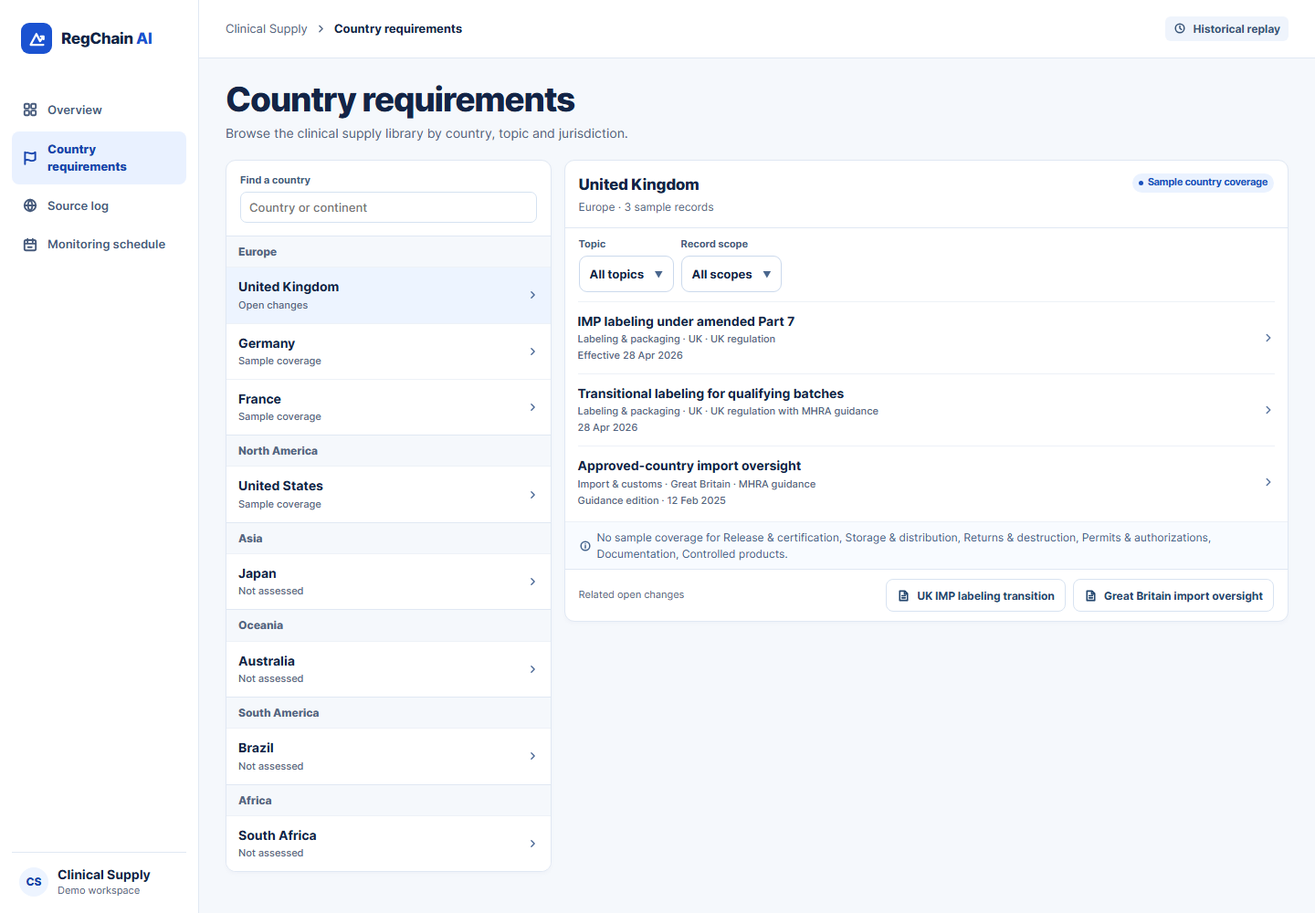
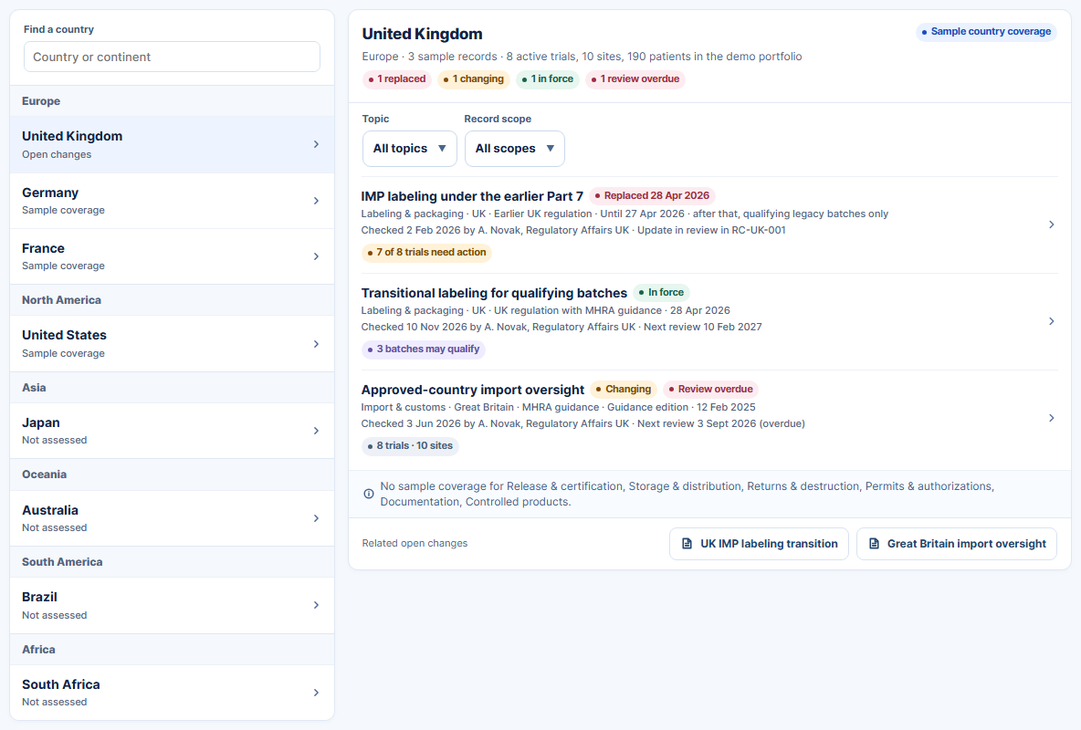
Show whether country records are current, which trials they affect and what to do
Each record in Country requirements now says whether it is in force, changing
or replaced, who last checked it and when it is next due. Before the SME
approves the UK case, the UK labeling record shows as replaced on 28 Apr 2026
instead of presenting the earlier rule as current.

Records show the active trials, sites and patients in the country from the
demo portfolio, with a drawer listing the trials, most urgent first. Opening a
record shows practical answers and lead times paraphrased from the official
sources named under each answer, and marks what the sources leave open.

The screen guide's Country requirements section and screenshots are updated.

diff --git a/RegChain-AI-Dashboard.html b/RegChain-AI-Dashboard.html
@@ -54,6 +54,10 @@ svg{width:18px;height:18px;fill:none;stroke:currentColor;stroke-width:1.7;stroke
 @media(prefers-reduced-motion:reduce){*{transition:none!important}}
 .ai-card{margin-bottom:15px}.ai-card .case-pad>p{max-width:780px}.ai-gate{display:flex;flex-wrap:wrap;gap:8px;align-items:center;margin:2px 0 10px}.ai-card h3{font-size:13px;margin-top:14px}.ai-quote{margin:4px 0 2px!important;font-size:12px;border-left:3px solid var(--line);padding-left:8px;color:var(--ink)!important}.ai-claim .badge{margin-right:6px}.ai-sources{margin-top:6px}.ai-sources td{vertical-align:top}.mono{font-family:ui-monospace,Consolas,monospace;font-size:11px}.diff{margin-top:12px}.diff summary{cursor:pointer;font-weight:700;font-size:13px}.diff ol{list-style:none;padding:0;margin:8px 0 0;max-height:320px;overflow:auto;border:1px solid var(--line);border-radius:8px;font-size:12px}.diff li{padding:4px 10px;border-top:1px solid #f0f3f8;overflow-wrap:anywhere}.diff li:first-child{border-top:0}.diff .add{background:#e7f6ef;color:#196449}.diff .del{background:#fcecf0;color:#9f2c42;text-decoration:line-through}
 .portfolio-impact{margin-bottom:17px}.impact-headline{font-size:15px;line-height:1.5;color:var(--ink)!important;max-width:860px;margin:2px 0 4px!important}.impact-headline strong{color:var(--deep)}
+.req-top{display:flex;align-items:center;gap:6px;flex-wrap:wrap}.req-row .req-top strong{display:inline}.req-chips{display:flex;gap:6px;flex-wrap:wrap;margin-top:6px}.record-summary{display:flex;gap:6px;flex-wrap:wrap;margin-top:7px}
+.record-alert{width:100%;border:1px solid #f3c7d1;border-left:4px solid #c2415a;background:#fdf3f5;border-radius:9px;padding:10px 11px;display:grid;gap:8px;justify-items:start}.record-alert.warn{border-color:#f5d9a6;border-left-color:#c27a00;background:#fff8ea}.record-alert p{color:#3f3346!important}
+.block-head{display:flex;justify-content:space-between;gap:8px;align-items:center;flex-wrap:wrap}.block-head h3{margin:0}.drawer-block .actions{margin-top:9px}
+.practice{list-style:none;padding:0;margin:6px 0 0}.practice li{border-top:1px solid var(--line);padding:9px 0}.practice li:first-child{border-top:0;padding-top:3px}.practice li:last-child{padding-bottom:0}.practice strong{font-size:13px}.practice strong+.badge{margin-left:6px}.practice p{margin:3px 0 2px;font-size:13px;color:#3f597c}.practice small{display:block;color:var(--muted);font-size:11px}.exposure-lines{margin:5px 0 0;padding-left:17px;font-size:13px;color:#3f597c}.exposure-lines li{margin:2px 0}
 </style>
 </head>
 <body>
@@ -118,8 +122,81 @@ const requirements = [
  {id:"gb-import",scope:"Great Britain",country:"uk",topic:topics[1],title:"Approved-country import oversight",basis:"MHRA guidance",when:"Guidance edition · 12 Feb 2025",status:"Example baseline",summary:"For the approved-country import route, verify the UK import authorization holder and the mechanism for checking certification by a qualified person in an approved country.",locator:"GOV.UK import guidance and approved-country list",source:"imports",related:"import"},
  {id:"eu-pack",scope:"EU",shared:true,topic:topics[0],title:"Immediate packaging and expiry or retest dates",basis:"EU delegated regulation",when:"In force from 5 Dec 2022",status:"Shared EU baseline",summary:"Annex VI allows the period of use to be omitted from the immediate package in specified configurations. Verify the packaging conditions and the other particulars required by Annex VI.",locator:"Delegated Regulation (EU) 2022/2239, Annex, B.6.2 and B.6.3",source:"annex",related:"eu"},
  {id:"us-label",scope:"United States",country:"us",topic:topics[0],title:"Investigational new drug labeling",basis:"U.S. federal regulation",when:"Current eCFR section",status:"Example baseline",summary:"21 CFR 312.6 sets the investigational-use statement for immediate packages of investigational new drugs for human use and addresses misleading or unsupported labeling claims. The section also specifies a limited exception process.",locator:"21 CFR § 312.6",url:"https://www.ecfr.gov/current/title-21/chapter-I/subchapter-D/part-312/subpart-A/section-312.6"},
- {id:"us-import",scope:"United States",country:"us",topic:topics[1],title:"Importing investigational new drugs",basis:"FDA guidance page",when:"See linked FDA source",status:"Example baseline",summary:"FDA describes the IND, U.S. consignee and labeling evidence for imports under an active IND. Check applicability and exemptions against the governing provisions.",locator:"FDA, Importing Investigational New Drugs",url:"https://www.fda.gov/drugs/human-drug-imports/importing-investigational-new-drugs"}
+ {id:"us-import",scope:"United States",country:"us",topic:topics[1],title:"Importing investigational new drugs",basis:"FDA guidance page",when:"Page current as of 15 Jun 2026",status:"Example baseline",summary:"FDA describes the IND, U.S. consignee and labeling evidence for imports under an active IND. Check applicability and exemptions against the governing provisions.",locator:"FDA, Importing Investigational New Drugs",url:"https://www.fda.gov/drugs/human-drug-imports/importing-investigational-new-drugs"}
 ];
+// What each record means in practice, who last checked it, and when it is due again.
+// Answers are short paraphrases written from the official sources named in `ref` (checked 14 Nov 2026).
+// The people are fictional demo users. `watch` lists the monitored sources, `change` an open change that may alter the record.
+const recordDetails = {
+ "uk-label":{
+  checked:{on:"2026-02-02",by:"A. Novak, Regulatory Affairs UK"},review:"2026-05-02",watch:["statute"],
+  practice:[
+   {q:"What must the label show?",a:"For an IMP without a UK marketing authorisation: the words “for clinical trial use only”; a warning to keep it out of the reach and sight of children (not needed if it is only given in a hospital or health centre taking part in the trial); sponsor and contact details; the trial reference; the participant number; active substance, strength, form, contents and batch number; instructions for use, route, expiry date and storage; and in blinded trials, the name of any comparator or placebo.",ref:"Regulation 46(1)"},
+   {q:"Is a shorter label allowed?",a:"Yes, for authorised medicines given only in a hospital or health centre taking part in the trial, and for diagnostic radiopharmaceuticals. Authorised medicines can also carry the standard dispensing label instead.",ref:"Regulation 46(2) to (4)"},
+   {q:"Does a change to an existing label need MHRA approval?",a:"The sponsor risk-assesses each change as substantial or minor. Adding “and sight” to the children warning is the guidance's example of a minor change. A substantial change needs a Route A substantial modification, approved before it is used.",ref:"MHRA transitional arrangements guidance"},
+   {q:"Can a requirement be varied or dropped?",a:"Ask in the trial application, and record an agreed variation in the IMP dossier. For a batch made after 28 Apr 2026 that cannot meet the rules for exceptional operational reasons, apply through a Route A substantial modification. The batch cannot be used until it is approved.",ref:"Regulation 46(5) and (6) · MHRA transitional arrangements guidance"},
+   {q:"Can we update the expiry date on older stock?",a:"Yes. If the IMP was QP certified before 28 Apr 2026, its expiry date can be updated after that date without bringing the rest of the label up to the new rules.",ref:"MHRA transitional arrangements guidance"},
+   {q:"Do non-investigational products (NIMPs) get the transition?",a:"No. From 28 Apr 2026 every NIMP must meet the amended rules, whatever its manufacture date. Existing trials whose NIMP labels do not comply need a substantial modification.",ref:"MHRA transitional arrangements guidance"},
+   {q:"Which language must the label use?",a:"Regulation 46 does not say. Confirm with Regulatory Affairs before relying on it.",ref:"Not stated in the watched sources",open:true}
+  ],
+  lead:[
+   {label:"Prepare a UK shipment",value:"5 calendar days",basis:"Company supply data"},
+   {label:"MHRA decision on a substantial label change",value:"Not stated in the watched sources",basis:"Add from Regulatory Affairs",open:true}
+  ]},
+ "uk-transition":{
+  checked:{on:"2026-11-10",by:"A. Novak, Regulatory Affairs UK"},review:"2027-02-10",watch:["transition","statute"],
+  practice:[
+   {q:"Which date decides old or new rules?",a:"The date of QP certification of the finished IMP, not the date it was physically made.",ref:"MHRA transitional arrangements guidance"},
+   {q:"When can a batch keep its old-rules label?",a:"When it was made before 28 Apr 2026, is labelled under the old regulation 46, and is used in the old-rules trial it was made for. Part 7 of the old rules then keeps applying to it.",ref:"Schedule 14, paragraph 6"},
+   {q:"What about IMPs imported from approved countries?",a:"An IMP certified by a QP before 28 Apr 2026 and labelled under the old rules can still be used in its UK trial, even if UK QP import oversight was completed after that date.",ref:"MHRA transitional arrangements guidance"},
+   {q:"Does the transition cover NIMPs?",a:"No. NIMPs follow the amended rules from 28 Apr 2026.",ref:"MHRA transitional arrangements guidance"},
+   {q:"Do approved labels need “participant” instead of “patient”?",a:"No, labels already approved can stay. MHRA strongly encourages “participant” on labels approved after 28 Apr 2026.",ref:"MHRA transitional arrangements guidance"}
+  ],
+  lead:[
+   {label:"Old-rules cutoff",value:"QP certification before 28 Apr 2026",basis:"Schedule 14 and MHRA guidance"},
+   {label:"QP certification on 28 Apr 2026 itself",value:"Expert decision",basis:"The guidance speaks of “before” and “after” the date, so RegChain escalates these batches",open:true}
+  ]},
+ "gb-import":{
+  checked:{on:"2026-06-03",by:"A. Novak, Regulatory Affairs UK"},review:"2026-09-03",watch:["imports","list"],change:"import",
+  practice:[
+   {q:"Who must oversee imports from approved countries?",a:"A UK MIA(IMP) holder. Its named QP oversees a system that checks each batch was QP certified in a listed country before release to the trial. The batch is not certified again.",ref:"MHRA import guidance, section 2"},
+   {q:"Which countries count?",a:"Countries on MHRA's approved-country list, initially all EU and EEA countries. From any other country, import and QP certification by the UK MIA(IMP) holder are still needed.",ref:"MHRA import guidance, section 2 · approved-country list"},
+   {q:"What evidence is needed for each batch?",a:"One piece of written evidence that the batch was QP certified for the UK trial, such as a batch certificate or a certification statement under Article 62(1) of Regulation (EU) 536/2014.",ref:"MHRA import guidance, section 3.3"},
+   {q:"What must be in place before shipping?",a:"Written agreements between the sponsor, the UK MIA(IMP) holder, the listed-country MIA(IMP) holder and any GB hub; shipments only to approved GB sites; and MHRA authorisation of the trial before the IMP reaches the investigator.",ref:"MHRA import guidance, sections 3 and 3.1"},
+   {q:"Must the QP live in the UK?",a:"Not for this check. The QP may live in the UK or in a listed country. Imports from countries not on the list need a QP resident in the UK.",ref:"MHRA import guidance, section 2"},
+   {q:"Which of our shipments use this route?",a:"Unknown. The supply data does not record where each shipment comes from.",ref:"Gap in the demo supply data",open:true}
+  ],
+  lead:[
+   {label:"Check QP certification evidence",value:"Before the first shipment from each batch",basis:"MHRA import guidance, section 3.3"},
+   {label:"Prepare a UK shipment",value:"5 calendar days",basis:"Company supply data"}
+  ]},
+ "eu-pack":{
+  checked:{on:"2026-10-01",by:"L. Weber, Regulatory Affairs EU"},review:"2027-04-01",watch:["annex","qa"],change:"eu",
+  practice:[
+   {q:"When can the expiry date be left off the immediate pack?",a:"When the immediate and outer packs stay together, or when the immediate pack is a blister or a small unit such as an ampoule. The outer pack must then carry all the particulars, and the immediate pack can omit the expiry or retest date.",ref:"Regulation (EU) 536/2014, Annex VI, B.6.2 and B.6.3, as amended by Delegated Regulation (EU) 2022/2239"},
+   {q:"Which language must the label use?",a:"The language each Member State sets. A product may be labelled in several languages.",ref:"Regulation (EU) 536/2014, Article 69"},
+   {q:"Does the new Q&A on cryopreserved products change this?",a:"Not assessed yet. It is an open change for Regulatory Affairs.",ref:"Open change: EU guidance on cryopreserved products",open:true}
+  ],
+  lead:[]},
+ "us-label":{
+  checked:{on:"2026-08-20",by:"J. Carter, Regulatory Affairs US"},review:"2027-02-20",watch:[],
+  practice:[
+   {q:"What must the immediate package say?",a:"“Caution: New Drug—Limited by Federal (or United States) law to investigational use.”",ref:"21 CFR 312.6(a)"},
+   {q:"What must the label avoid?",a:"Anything false or misleading, and any claim that the drug is safe or effective for the purposes being investigated.",ref:"21 CFR 312.6(b)"},
+   {q:"When did this rule last change?",a:"Its last substantive change dates from 23 Dec 2016, according to the eCFR version history.",ref:"eCFR versions of 21 CFR 312.6"}
+  ],
+  lead:[]},
+ "us-import":{
+  checked:{on:"2026-08-20",by:"J. Carter, Regulatory Affairs US"},review:"2027-02-20",watch:[],
+  practice:[
+   {q:"What is needed to import?",a:"An IND in effect for the drug, unless it is exempt under 21 CFR 312.2. Submit the IND before importing, and import the drug only for the investigation it covers.",ref:"FDA import page · 21 CFR 312.110"},
+   {q:"Who can receive the shipment?",a:"The IND sponsor, a qualified investigator named in the IND, or the US agent of a foreign sponsor named in the IND. FDA checks that the entry documents match.",ref:"21 CFR 312.110(a), via the FDA import page"},
+   {q:"Does the drug need registration and listing?",a:"No. Drugs under an active IND are exempt.",ref:"21 CFR 207.13, via the FDA import page"}
+  ],
+  lead:[
+   {label:"Earliest shipment to investigators",value:"30 days after FDA receives the IND, or earlier if FDA authorises it",basis:"21 CFR 312.40(c)"}
+  ]}
+};
 </script>
 <script id="workflow-model">
 "use strict";
@@ -433,16 +510,20 @@ if(portfolio) {
   const ukChange=changes.find(change=>change.id==="uk");
   ukChange.studyNote=studies.filter(study=>study.status==="Batch review").length+" of "+studies.length+" fictional portfolio studies have UK batches to review. The public registry view shows screening candidates.";
 }
+// The UK labeling change across the portfolio: used by the Overview card and the country library.
+function ukLabelImpact() {
+  const statusOf=id=>assessedBatches.find(batch=>batch.id===id)?.status;
+  const urgent=shipmentFindings().filter(shipment=>actionStatuses.includes(statusOf(shipment.batch))).sort((a,b)=>a.preparationDate.localeCompare(b.preparationDate));
+  return {statusOf,urgent,first:urgent[0],
+    trials:studies.filter(study=>study.status==="Batch review").length,
+    batches:assessedBatches.filter(batch=>actionStatuses.includes(batch.status)).length,
+    patients:urgent.reduce((sum,shipment)=>sum+(shipment.patients||0),0)};
+}
 function portfolioImpactCard() {
   if(!portfolio||!ukOpen()) return "";
   const asOf=portfolio.assessment_as_of.slice(0,10);
   const daysLeft=day=>Math.round((Date.parse(day)-Date.parse(asOf))/86400000);
-  const statusOf=id=>assessedBatches.find(batch=>batch.id===id)?.status;
-  const urgent=shipmentFindings().filter(shipment=>actionStatuses.includes(statusOf(shipment.batch))).sort((a,b)=>a.preparationDate.localeCompare(b.preparationDate));
-  const trials=studies.filter(study=>study.status==="Batch review").length;
-  const batches=assessedBatches.filter(batch=>actionStatuses.includes(batch.status)).length;
-  const patients=urgent.reduce((sum,shipment)=>sum+(shipment.patients||0),0);
-  const first=urgent[0];
+  const {statusOf,urgent,trials,batches,patients,first}=ukLabelImpact();
   const firstDays=first?daysLeft(first.preparationDate):null;
   const when=firstDays===0?"<strong>today</strong>":firstDays===1?"<strong>tomorrow</strong>":"by <strong>"+esc(displayDay(first?.preparationDate))+"</strong>";
   const headline='<p class="impact-headline"><strong>'+trials+' of '+studies.length+'</strong> trials need action. <strong>'+batches+'</strong> batches need a labeling review or an expert decision, and <strong>'+urgent.length+'</strong> UK shipments need work before dispatch'+
@@ -493,13 +574,89 @@ const countryById = id => countries.find(country=>country.id===id);
 function publishedRecord(record) {
   if(record.id!=="uk-label") return record;
   const current=workflow.publication;
-  return {...record,title:current?record.title:"UK IMP labeling reference",
+  return {...record,title:current?record.title:"IMP labeling under the earlier Part 7",
     status:current?"Published country record · v2":"Seeded baseline · v1",
-    when:current?"Effective 28 Apr 2026":"Legacy cohort reference",
+    when:current?"Effective 28 Apr 2026":"Until 27 Apr 2026 · after that, qualifying legacy batches only",
     ...(current?{}:{source:null,basis:"Earlier UK regulation",locator:"Pre-amendment Part 7, regulation 46",url:"https://www.legislation.gov.uk/cy/uksi/2004/1031/body/2025-07-23"}),
     summary:current?current.policy+" "+current.instruction:ukCase.baseline};
 }
 const recordsFor = country => requirements.filter(record=>record.country===country.id || (record.shared && country.shared)).map(publishedRecord);
+// Library dates follow the demo's assessment day, like the rest of the replay.
+const libraryToday = (portfolio?.assessment_as_of ?? "2026-11-14").slice(0,10);
+const plural = (count,word,many=word+"s") => count+" "+(count===1?word:many);
+function addMonths(day,months) {
+  const date=new Date(day+"T00:00:00Z");
+  date.setUTCMonth(date.getUTCMonth()+months);
+  return date.toISOString().slice(0,10);
+}
+// In force, Changing (an open change may alter it) or Replaced (the rule changed and the update is not approved).
+function recordState(record) {
+  if(record.id==="uk-label" && !workflow.publication) {
+    const rejected=workflow.stage==="rejected";
+    return {label:"Replaced 28 Apr 2026",tone:"red",change:"uk",
+      note:"The rule changed on 28 Apr 2026. This record still describes the earlier rule, which now applies only to qualifying legacy batches. "+
+        (rejected?"The update was rejected in case "+ukCase.id+", so the record has not been replaced yet.":"The updated record is waiting for expert approval in case "+ukCase.id+".")};
+  }
+  const change=openChanges().find(item=>item.id===recordDetails[record.id]?.change);
+  if(change) return {label:"Changing",tone:"amber",change:change.id,note:"An open change may alter this record: "+change.title+" ("+change.when+"). Regulatory Affairs is assessing it."};
+  return {label:"In force",tone:"green",note:""};
+}
+function recordCheck(record) {
+  const replaced=record.id==="uk-label" && !workflow.publication;
+  const details=recordDetails[record.id]??{};
+  const check=record.id==="uk-label" && workflow.publication
+    ? {on:workflow.publication.at.slice(0,10),by:(workflow.decision?.actor??"Regulatory SME")+", approved in "+ukCase.id,review:addMonths(workflow.publication.at.slice(0,10),3)}
+    : {...details.checked,review:details.review};
+  const overdue=!replaced && Boolean(check.review) && check.review<libraryToday;
+  const review=replaced?"Update in review in "+ukCase.id:displayDay(check.review)+(overdue?" (overdue)":"");
+  return {...check,overdue,review,line:"Checked "+displayDay(check.on)+" by "+check.by+" · "+(replaced?review:"Next review "+review)};
+}
+function watchText(record) {
+  const watched=(recordDetails[record.id]?.watch??[]).map(id=>sources.find(source=>source.id===id)).filter(Boolean);
+  if(!watched.length) return "Not on the watch list yet";
+  const retry=watched.filter(source=>source.status==="Retry needed").length;
+  return plural(watched.length,"source")+" watched · checked "+replayDate+(retry?" · "+retry+" needs a retry":"");
+}
+const countryCodes = {uk:"GB",de:"DE",fr:"FR",us:"US",jp:"JP",au:"AU",br:"BR",za:"ZA"};
+// Active trials, sites and patients in one country of the demo portfolio.
+function countryPortfolio(countryId) {
+  if(!portfolio) return null;
+  const code=countryCodes[countryId];
+  const active=new Set(portfolio.studies.filter(study=>study.status!=="completed").map(study=>study.id));
+  const trialIds=[...new Set(portfolio.study_countries.filter(item=>item.country_code===code && active.has(item.study_id)).map(item=>item.study_id))];
+  const sites=portfolio.sites.filter(site=>site.country_code===code && active.has(site.study_id));
+  return {trialIds,sites,patients:sites.reduce((sum,site)=>sum+(site.patients_on_treatment||0),0)};
+}
+// Which of our trials a record touches, in the country being viewed.
+function recordExposure(record) {
+  const country=countryById(currentCountry);
+  const base=countryPortfolio(country.id);
+  if(!base) return null;
+  const trials=base.trialIds.length;
+  if(!trials) return {chip:["No active trials here",""],lines:["No active trials in the demo portfolio have sites in "+country.name+"."],trials};
+  const where=plural(trials,"active trial")+" · "+plural(base.sites.length,"site")+" · "+base.patients+" patients on treatment in "+country.name;
+  const chip=[plural(trials,"trial")+" · "+plural(base.sites.length,"site"),""];
+  if(record.id==="uk-label") {
+    const impact=ukLabelImpact();
+    return {trials,chip:[impact.trials+" of "+trials+" trials need action",impact.trials?"amber":""],lines:[
+      impact.trials+" of "+trials+" active UK trials need action",
+      plural(impact.batches,"batch","batches")+" need a labeling review or an expert decision",
+      plural(impact.urgent.length,"UK shipment")+" need work before dispatch"+(impact.first?" · first to prepare: "+impact.first.id+(impact.first.preparationDate===libraryToday?", today":" by "+displayDay(impact.first.preparationDate)):""),
+      impact.patients+" patients on treatment at the sites those shipments resupply"]};
+  }
+  if(record.id==="uk-transition") {
+    const uk=assessedBatches.filter(batch=>batch.scope==="UK");
+    const qualify=uk.filter(batch=>batch.status==="Potential transition eligibility").length;
+    const missing=uk.filter(batch=>batch.status==="Insufficient information" && batch.qp && batch.qp<ukCase.effective).length;
+    const cutoff=uk.filter(batch=>batch.status==="Needs SME assessment").length;
+    return {trials,chip:[plural(qualify,"batch","batches")+" may qualify","purple"],lines:[
+      plural(qualify,"batch","batches")+" may keep "+(qualify===1?"its":"their")+" old-rules label",
+      plural(missing,"batch","batches")+" certified before 28 Apr 2026 "+(missing===1?"lacks":"lack")+" the evidence to confirm it",
+      plural(cutoff,"batch","batches")+" certified on 28 Apr 2026 "+(cutoff===1?"needs":"need")+" an expert decision",where]};
+  }
+  if(record.id==="gb-import") return {trials,chip,lines:[where,"The supply data does not record where shipments come from, so imported batches cannot be identified yet."]};
+  return {trials,chip,lines:[where]};
+}
 function countryList() {
   const query=countrySearch.trim().toLowerCase();
   const groups=regions.map(region=>{
@@ -526,10 +683,24 @@ function countryRequirements() {
     const change=changes.find(item=>item.id===id);
     return trigger(change.title,"open-case",id,"","file");
   });
-  const rows=filtered.map(record=>'<button type="button" class="req-row" data-act="requirement" data-value="'+record.id+'"><span><strong>'+record.title+'</strong><small class="sub">'+record.topic+' · '+record.scope+' · '+record.basis+'</small><small class="sub">'+record.when+'</small></span>'+icon("chevron")+'</button>').join("");
+  const rows=filtered.map(record=>{
+    const state=recordState(record);
+    const check=recordCheck(record);
+    const exposure=recordExposure(record);
+    return '<button type="button" class="req-row" data-act="requirement" data-value="'+record.id+'"><span><span class="req-top"><strong>'+esc(record.title)+'</strong>'+badge(state.label,state.tone)+(check.overdue?badge("Review overdue","red"):"")+'</span>'+
+      '<small class="sub">'+esc(record.topic+' · '+record.scope+' · '+record.basis+' · '+record.when)+'</small><small class="sub">'+esc(check.line)+'</small>'+
+      (exposure?'<span class="req-chips">'+badge(...exposure.chip)+'</span>':'')+'</span>'+icon("chevron")+'</button>';
+  }).join("");
   const coveredTopics=new Set(all.map(record=>record.topic));
   const missing=topics.filter(topic=>!coveredTopics.has(topic));
-  return '<section class="card"><div class="card-head"><div><h2>'+country.name+'</h2><p>'+country.region+' · '+all.length+' sample records</p></div>'+badge(coverage,hasLocal?"blue":all.length?"purple":"")+'</div>'+
+  const base=countryPortfolio(country.id);
+  const states=all.map(recordState);
+  const tally=["Replaced","Changing","In force"].map(label=>[label,states.filter(state=>state.label.startsWith(label)).length,states.find(state=>state.label.startsWith(label))?.tone]).filter(([,count])=>count);
+  const overdue=all.filter(record=>recordCheck(record).overdue).length;
+  const summary=tally.map(([label,count,tone])=>badge(count+" "+label.toLowerCase(),tone)).join("")+(overdue?badge(plural(overdue,"review")+" overdue","red"):"");
+  return '<section class="card"><div class="card-head"><div><h2>'+country.name+'</h2><p>'+country.region+' · '+plural(all.length,"sample record")+
+    (base?' · '+plural(base.trialIds.length,"active trial")+', '+plural(base.sites.length,"site")+', '+base.patients+' patients in the demo portfolio':'')+'</p>'+
+    (summary?'<div class="record-summary">'+summary+'</div>':'')+'</div>'+badge(coverage,hasLocal?"blue":all.length?"purple":"")+'</div>'+
     '<div class="card-foot"><div class="filters"><label class="field">Topic<select id="country-topic">'+options([["all","All topics"],...topics.map(topic=>[topic,topic])],countryTopic)+'</select></label><label class="field">Record scope<select id="country-scope">'+options([["all","All scopes"],["local","Country-specific"],["shared","Shared EU"]],countryScope)+'</select></label></div></div>'+
     (rows?'<div class="req-list">'+rows+'</div>':'<p class="nothing">'+(all.length?"No records match these filters.":"This prototype has no reviewed records for this country.")+'</p>')+
     '<div class="inline-note">'+icon("info")+'<span>'+esc((all.length && !hasLocal?"Country-specific requirements are not assessed. ":"")+(missing.length?"No sample coverage for "+missing.join(", ")+".":""))+'</span></div>'+
@@ -539,14 +710,56 @@ function countryLibrary() {
   return heading("Country requirements","Browse the clinical supply library by country, topic and jurisdiction.")+
     '<div class="library-layout"><section class="card"><div class="card-head"><label class="field" style="width:100%">Find a country<input id="country-search" type="search" placeholder="Country or continent" value="'+esc(countrySearch)+'"></label></div><div id="country-list">'+countryList()+'</div></section><div id="country-requirements">'+countryRequirements()+'</div></div>';
 }
+function practiceList(items) {
+  return '<ul class="practice">'+items.map(item=>'<li><strong>'+esc(item.q)+'</strong>'+(item.open?badge("To confirm","amber"):"")+'<p>'+esc(item.a)+'</p><small>'+esc(item.ref)+'</small></li>').join("")+'</ul>';
+}
+function leadList(items) {
+  return '<ul class="practice">'+items.map(item=>'<li><strong>'+esc(item.label)+'</strong>'+(item.open?badge("To confirm","amber"):"")+'<p>'+esc(item.value)+'</p><small>'+esc(item.basis)+'</small></li>').join("")+'</ul>';
+}
 function requirementDetail(id) {
   const record=publishedRecord(requirements.find(item=>item.id===id));
   const source=sources.find(item=>item.id===record.source);
-  drawer("Country requirements library",record.title,badge(record.status,"blue")+
-    factlist([["Jurisdiction",record.scope],["Topic",record.topic],["Source type",record.basis],["Date or edition",record.when],["Source provision",record.locator]])+
+  const details=recordDetails[id]??{};
+  const state=recordState(record);
+  const check=recordCheck(record);
+  const exposure=recordExposure(record);
+  const country=countryById(currentCountry);
+  const alert=state.note?'<section class="record-alert'+(state.tone==="red"?"":" warn")+'"><p>'+esc(state.note)+'</p>'+trigger(state.change==="uk"?"Open the UK case":"Open the change","open-case",state.change,"","arrow")+'</section>':"";
+  const replaced=state.label.startsWith("Replaced");
+  const practiceTag=id==="uk-label"?(replaced?badge("Draft · awaiting expert approval","amber"):badge("Approved in "+ukCase.id,"green")):badge("Example · written from the official sources","blue");
+  const exposureBlock='<section class="drawer-block"><div class="block-head"><h3>Our trials in '+esc(country.name)+'</h3>'+(exposure?badge(...exposure.chip):"")+'</div>'+
+    (exposure?'<ul class="exposure-lines">'+exposure.lines.map(line=>'<li>'+esc(line)+'</li>').join("")+'</ul>'+(exposure.trials?'<div class="actions">'+trigger("See the trials","record-trials",id,"","arrow")+'</div>':""):
+      '<p>Start the dashboard with Start-RegChain.cmd to load the demo portfolio and see which trials this record affects.</p>')+'</section>';
+  const practiceBlock=details.practice?.length?'<section class="drawer-block"><div class="block-head"><h3>'+(replaced?"What to do under the amended rule":"What to do")+'</h3>'+practiceTag+'</div>'+practiceList(details.practice)+'</section>':"";
+  const leadBlock=details.lead?.length?'<section class="drawer-block"><h3>Lead times</h3>'+leadList(details.lead)+'</section>':"";
+  drawer("Country requirements library",record.title,'<div class="actions">'+badge(state.label,state.tone)+(check.overdue?badge("Review overdue","red"):"")+badge(record.status,"blue")+'</div>'+alert+
+    exposureBlock+practiceBlock+leadBlock+
+    factlist([["Jurisdiction",record.scope],["Topic",record.topic],["Source type",record.basis],["Date or edition",record.when],["Source provision",record.locator],
+      ["Last checked",displayDay(check.on)+" · "+check.by],["Next review",check.review],["Source watch",watchText(record)]])+
     block("Requirement summary",record.summary)+
     '<div class="actions">'+openLink("Open official source",source?.url??record.url,"primary")+
     (record.id==="uk-label"?trigger("View versions","case-history","uk","","arrow"):record.related?trigger("View related change","open-case",record.related,"","arrow"):"")+'</div>');
+}
+// The trials behind a record's numbers, in the country being viewed.
+function recordTrials(id) {
+  const record=publishedRecord(requirements.find(item=>item.id===id));
+  const country=countryById(currentCountry);
+  const base=countryPortfolio(country.id);
+  if(!base) return requirementDetail(id);
+  const ukRecord=["uk-label","uk-transition"].includes(id);
+  const order=studyId=>{const index=studies.findIndex(study=>study.id===studyId);return index<0?studies.length:index;};
+  const items=[...base.trialIds].sort((a,b)=>order(a)-order(b)||a.localeCompare(b)).map(studyId=>{
+    const study=portfolio.studies.find(item=>item.id===studyId);
+    const sites=base.sites.filter(site=>site.study_id===studyId);
+    const assessed=ukRecord?studies.find(item=>item.id===studyId):null;
+    const patients=sites.reduce((sum,site)=>sum+(site.patients_on_treatment||0),0);
+    return '<li><div class="block-head"><strong>'+esc(studyId+" · "+study.title)+'</strong>'+(assessed?badge(assessed.status,assessed.tone):badge("In scope","blue"))+'</div>'+
+      '<small>'+esc((sites.map(site=>site.city).join(", ")||"No sites listed")+" · "+plural(patients,"patient")+" on treatment"+(assessed?" · "+assessed.reason:""))+'</small></li>';
+  }).join("");
+  drawer("Country requirements library","Our trials affected by “"+record.title+"”",
+    '<p>'+esc(plural(base.trialIds.length,"active trial")+" in "+country.name+" in the demo portfolio"+(ukRecord?", ordered by what needs action first.":"."))+'</p>'+
+    '<ul class="case-list" style="width:100%">'+items+'</ul>'+
+    '<div class="actions">'+trigger("Back to the record","requirement",id,"","arrow")+(id==="uk-label"&&ukOpen()?trigger("Open the UK case","open-case","uk","primary","arrow"):"")+'</div>');
 }
 function monitoringSchedule() {
   return heading("Monitoring schedule","Set the interval for automatic checks.")+
@@ -980,6 +1193,7 @@ const actions={
     focusTarget.focus();
   },
   requirement:requirementDetail,
+  "record-trials":recordTrials,
   "open-case":openCase,
   "case-history":id=>openCase(id,"history"),
   "workflow-tab":tab=>{workflowTab=tab;render();byId("view").querySelector('[data-act="workflow-tab"][data-value="'+tab+'"]').focus();},

diff --git a/RegChain-AI-Screen-Guide.md b/RegChain-AI-Screen-Guide.md
@@ -84,9 +84,15 @@ Status on 14 November 2026. The screens were captured from `main` with the demo 
 
 ![Country requirements](screens/12-country-requirements.png)
 
-**Shows:** the country library: requirements by country, topic and scope, coverage gaps per topic, and links to open changes.
+**Shows:** the country library: requirements by country, topic and scope, coverage gaps per topic, and links to open changes. Each record now answers three questions:
 
-**Real or simulated:** sample records for a handful of countries. It does not reflect the 17 countries in the demo portfolio.
+- **Is it current?** Every record is *In force*, *Changing* (an open change may alter it) or *Replaced* (the rule changed and the update is not approved yet), with who checked it last, when it is next due and an overdue flag. Before the SME approves the UK case, the UK labeling record shows as replaced on 28 Apr 2026 instead of passing the earlier rule off as current.
+- **Which of our trials does it touch?** Each record shows the trials, sites and patients in that country, and for the UK labeling record, the 7 trials, 12 batches and 6 shipments that need action. "See the trials" lists them, most urgent first.
+- **What do we do?** Opening a record shows practical answers (what the label must show, when a shorter label is allowed, who must oversee imports, who can receive a US shipment), lead times, and what is still to confirm.
+
+![Requirement detail](screens/12b-requirement-detail.png)
+
+**Real or simulated:** six sample records for the UK, the EU and the US. The practical answers are short paraphrases written on 14 Nov 2026 from the official sources named under each answer: regulation 46 and Schedule 14 on legislation.gov.uk, MHRA's transitional and import guidance, Regulation (EU) 536/2014 as amended by 2022/2239, 21 CFR 312.6, 312.40 and 312.110, and FDA's import page. They are examples, not reviewed regulatory advice. The reviewers' names and check dates are fictional. The trial counts come from the demo portfolio, so they only appear when the dashboard runs through `Start-RegChain.cmd`. The library has records for 4 of the portfolio's 17 countries (UK, Germany, France and the US).
 
 ### 11. Source log
 
@@ -114,13 +120,15 @@ Status on 14 November 2026. The screens were captured from `main` with the demo 
 
 - [ ] One real AI run with an API key, and a recorded result for the venue in case the internet fails.
 - [x] The SME should approve the AI's draft, not pre-written text (logic gap 1, fixed).
-- [ ] The Overview tiles, the Source log and Country requirements should match the demo portfolio and the four real sources, or the pitch should say they are samples.
+- [x] Country requirements show whether each record is current, which portfolio trials it touches, and what to do.
+- [ ] The Overview tiles, the Source log and the library's countries should match the demo portfolio (17 countries) and the four real sources, or the pitch should say they are samples.
 - [ ] Display names for batch results (the specification and the dashboard still differ; see the project plan, step 1).
 
 **For a real product:**
 
 - Discovery of new documents, not only known pages (see Part 4).
 - More countries and topics, with sources per country.
+- Practical answers and lead times drafted by the AI from the sources and approved by an expert, instead of written by hand. Authority lead times are not in the watched sources yet.
 - Site stock and depot stock, not only planned shipments.
 - Real login and roles, saved decisions, and links to the trial database (EDC), Quality system (QMS) and safety database.
 - An inbox for the SME: every open change across countries, by deadline.
